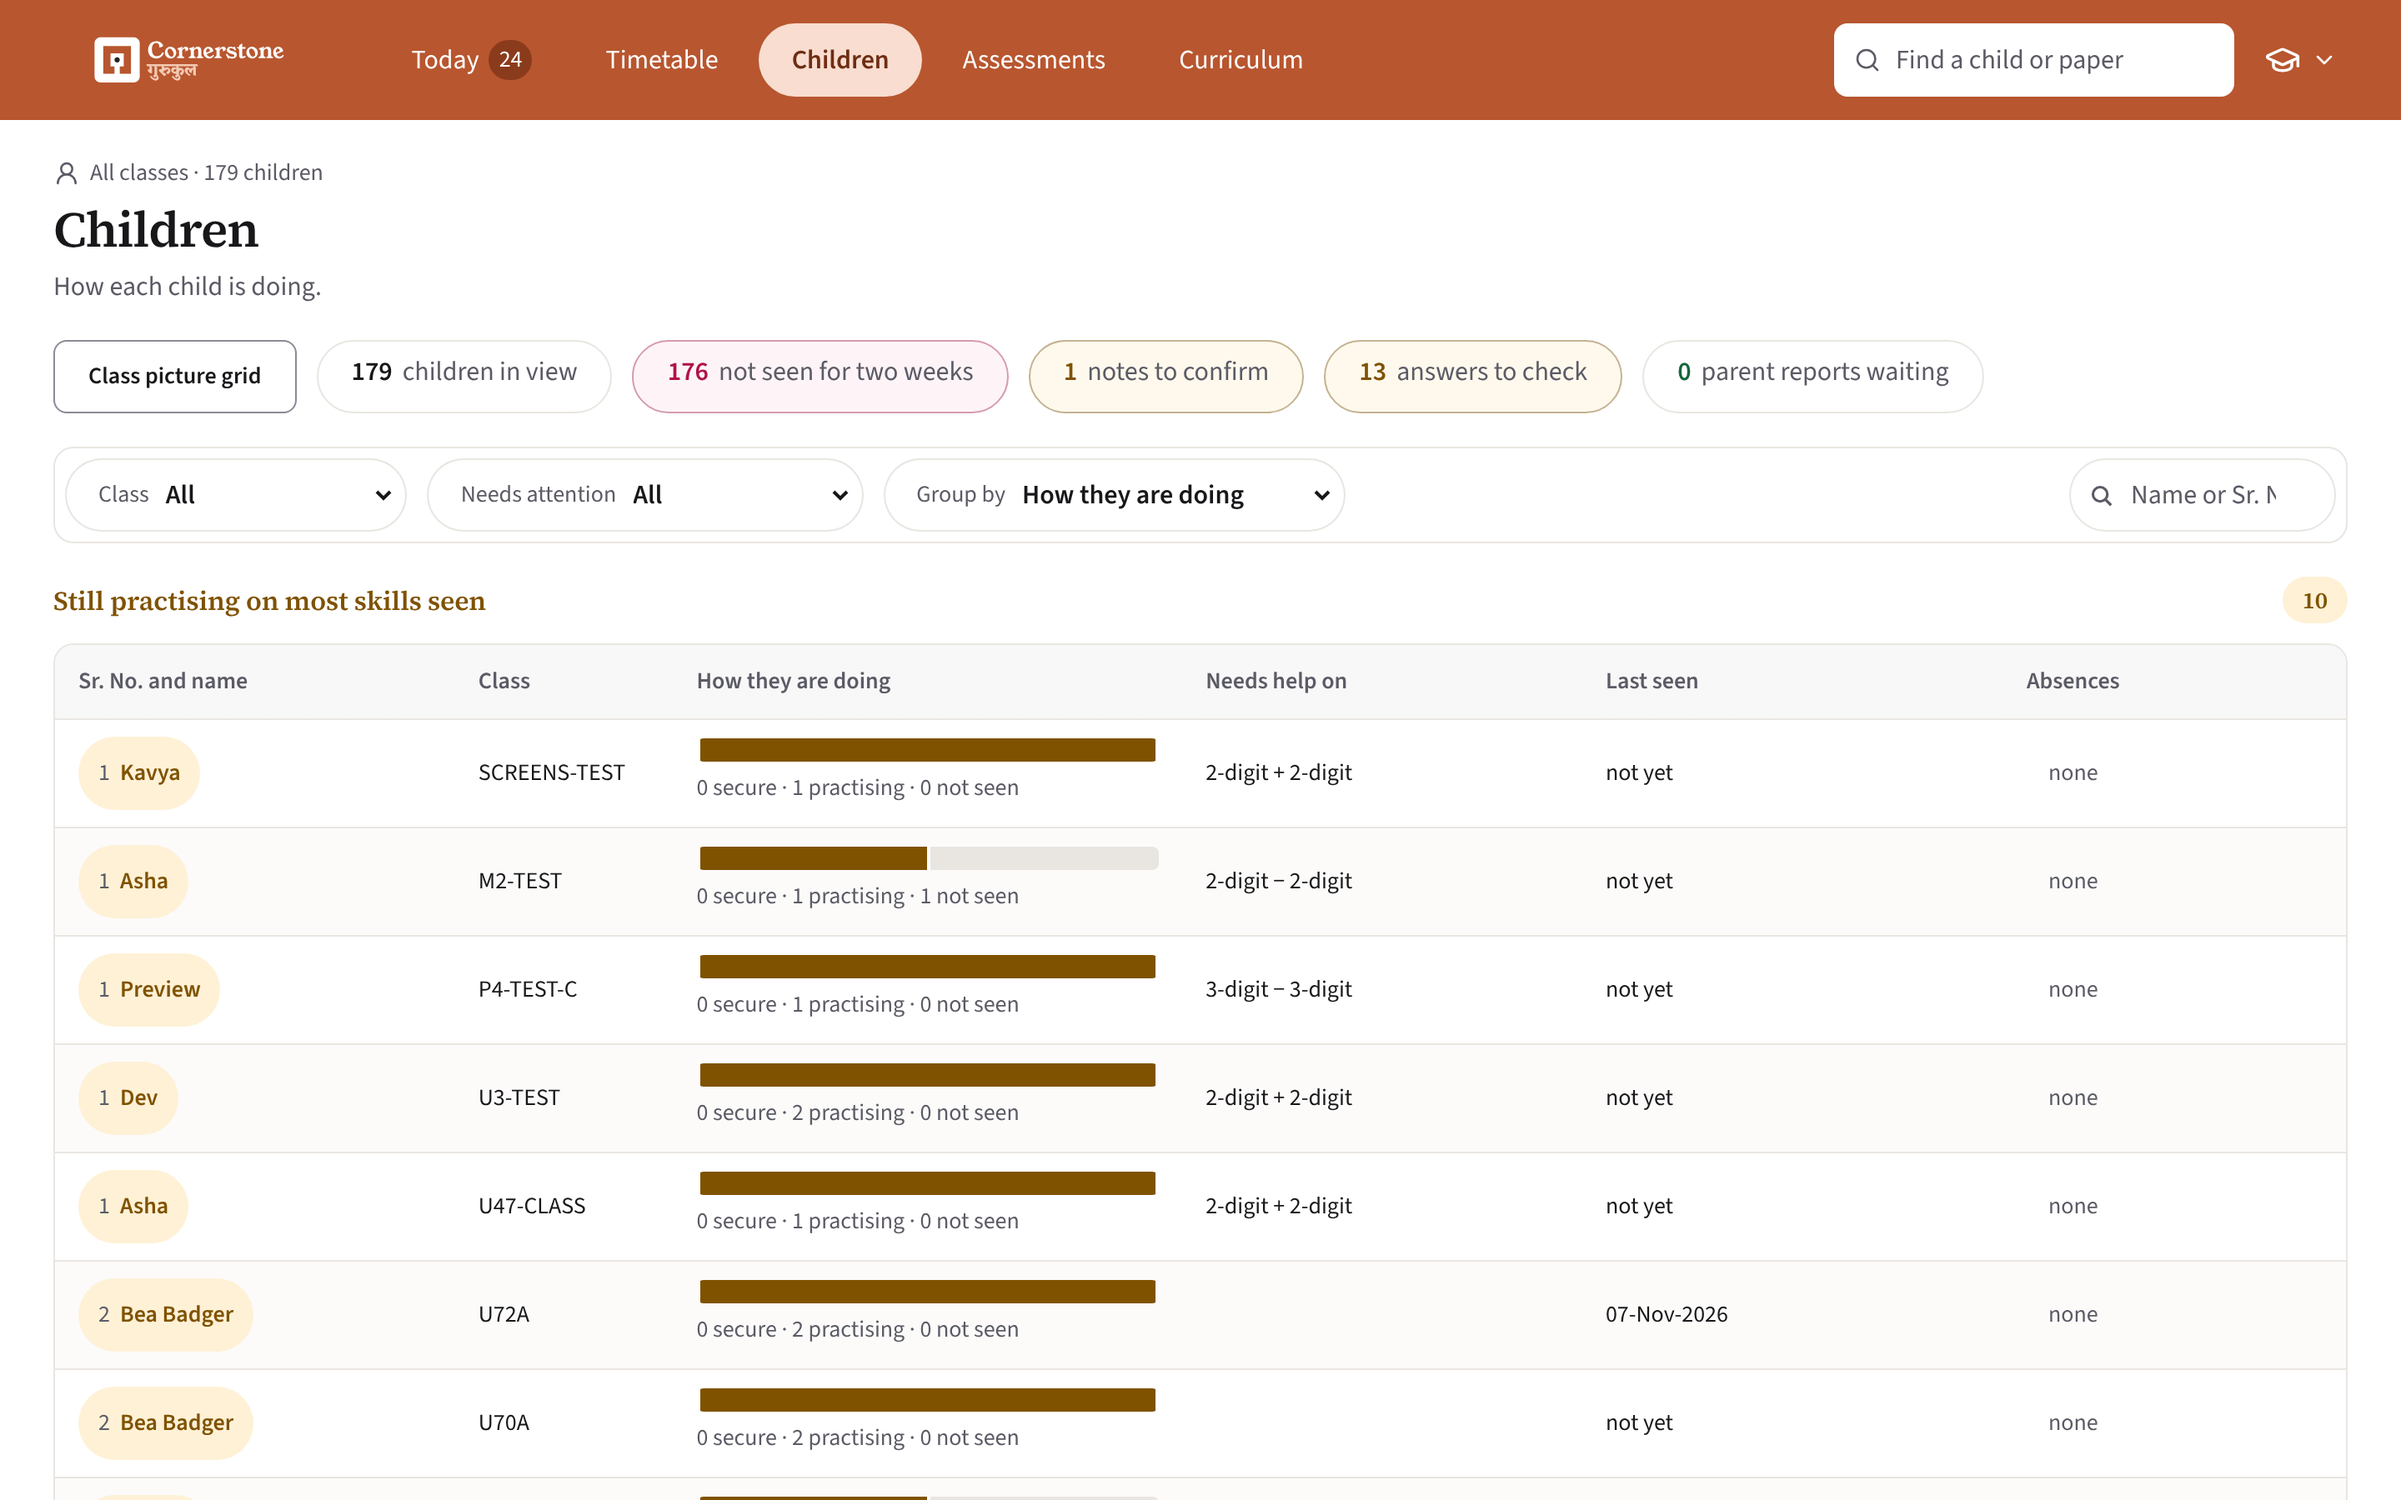
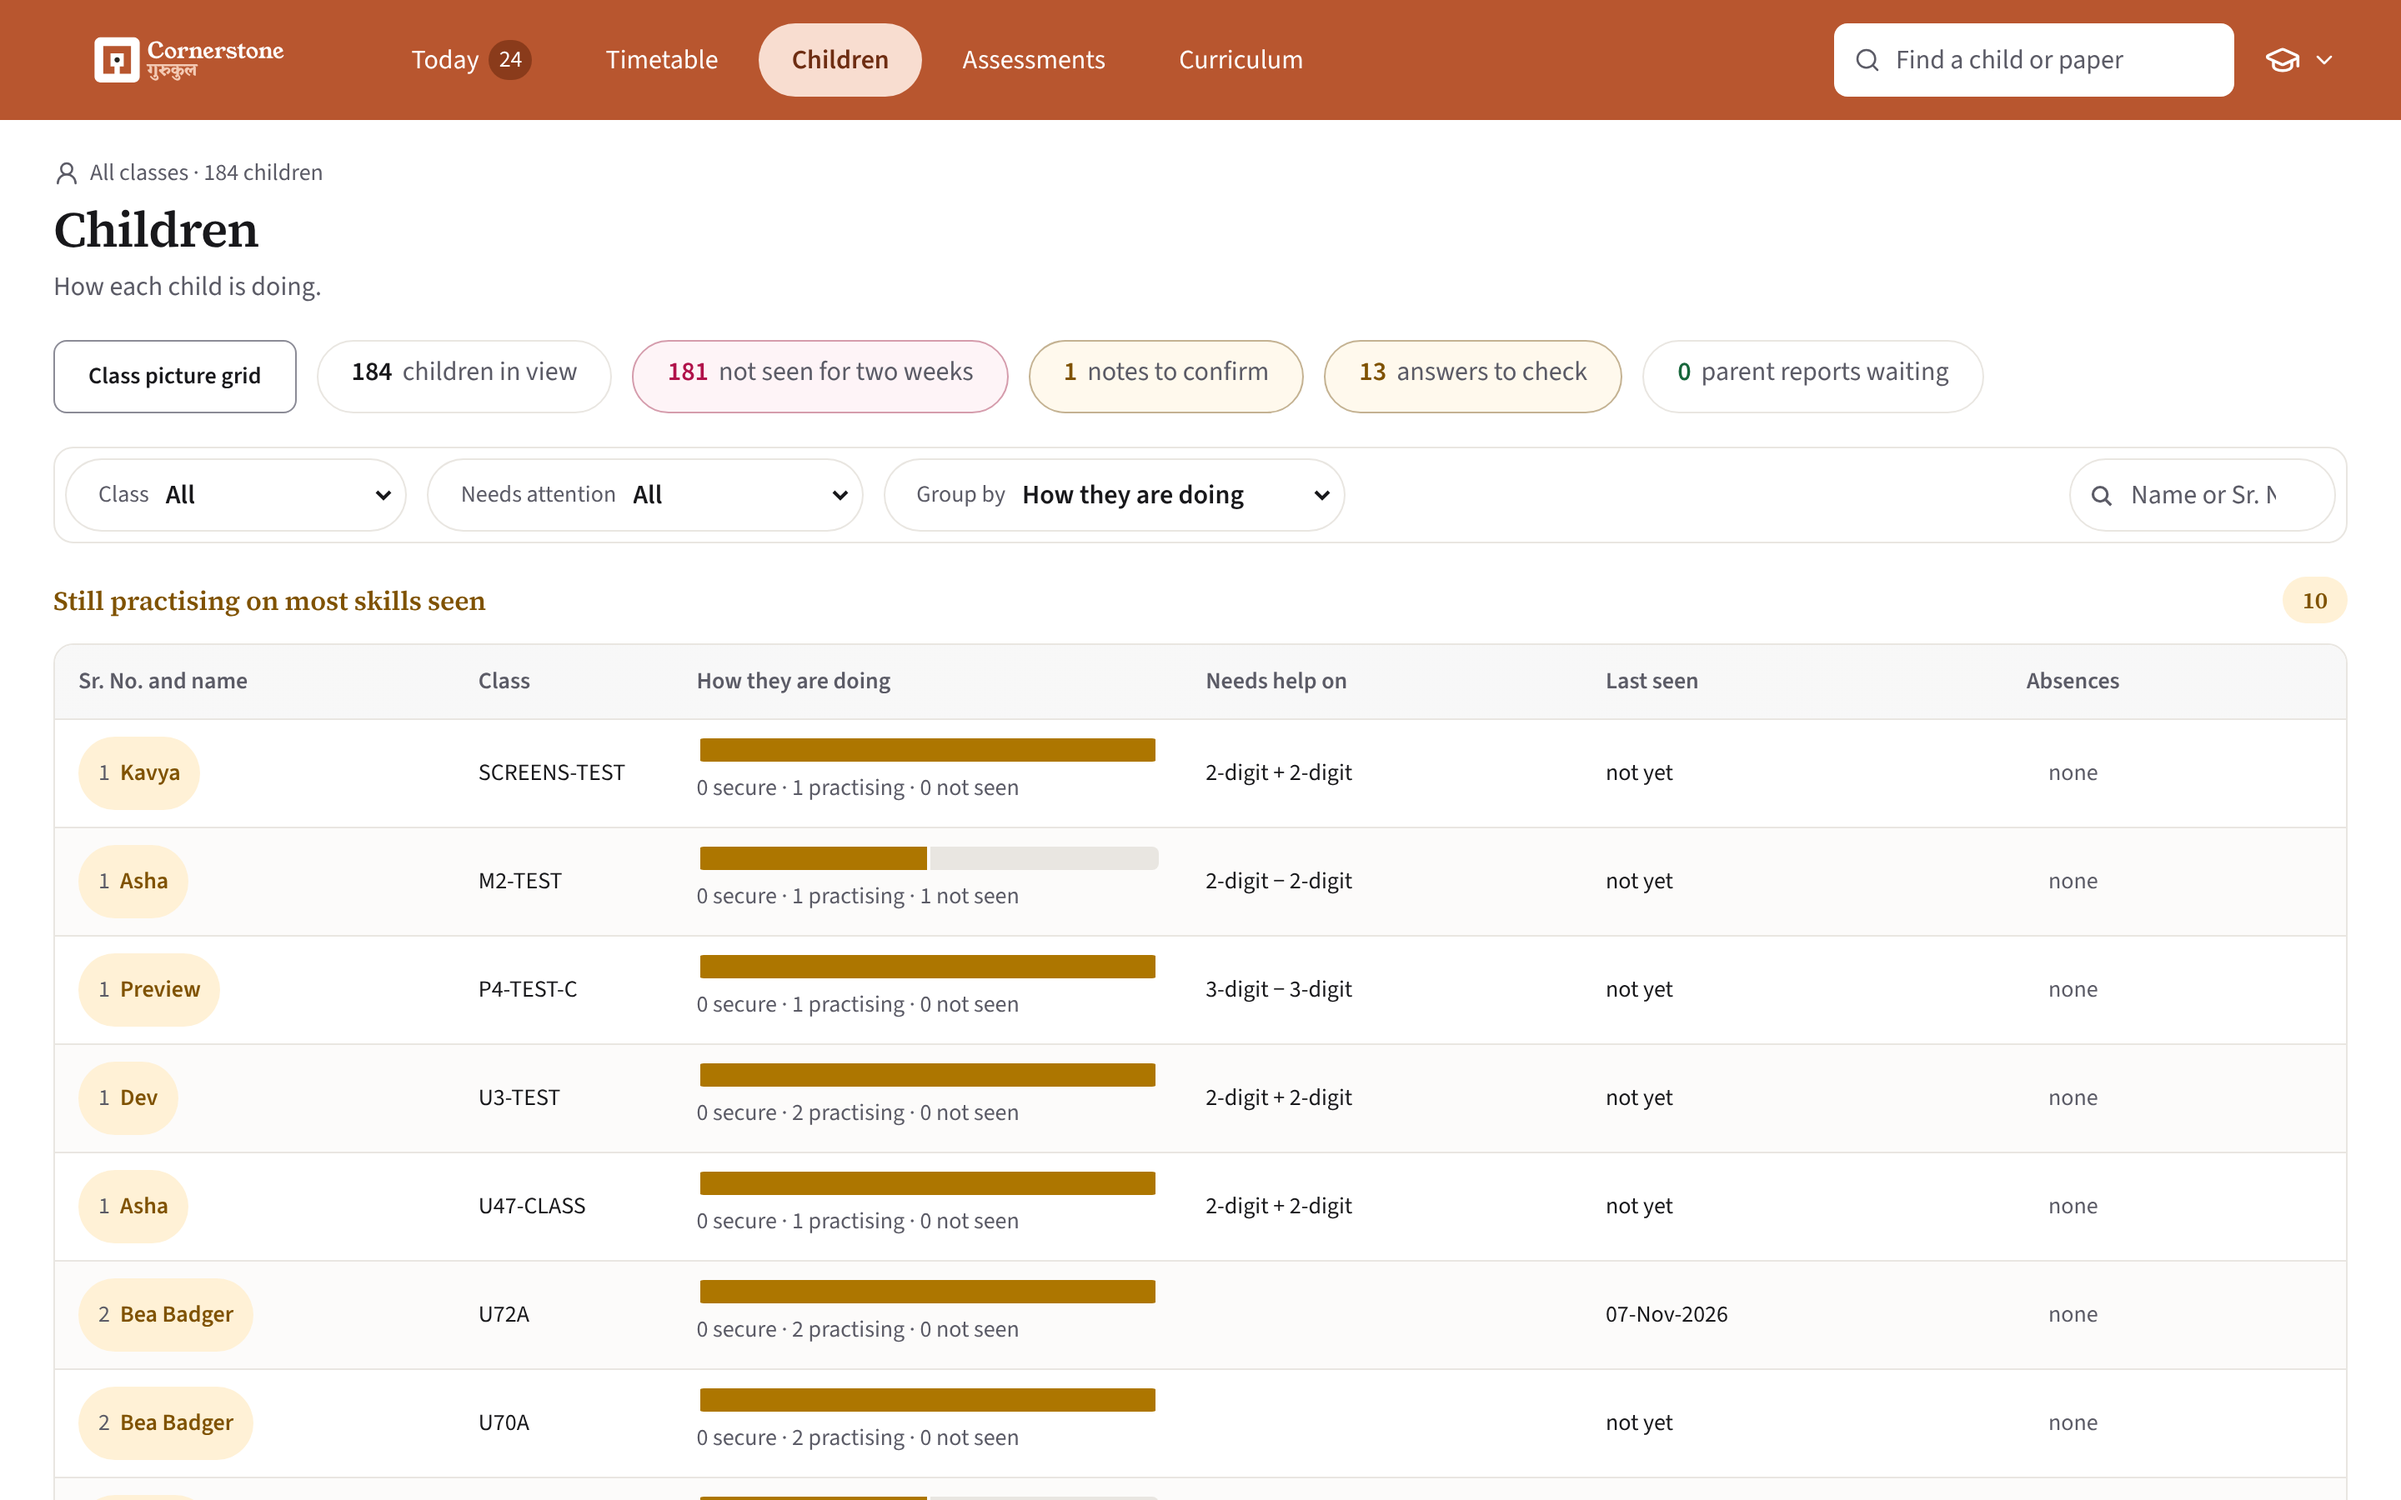
CP-68: a lighter amber for a bar's fill; an empty action row takes no row; Children's purpose line fits the word budget; notes for CP-68b
Claude-Session: https://claude.ai/code/session_01KEBF2A1VcMfqN7oEEPXLtP

diff --git a/apps/web/components/blocks.css b/apps/web/components/blocks.css
@@ -63,6 +63,8 @@
   .b-card { background: var(--panel); border-radius: var(--radius-card); box-shadow: var(--elev); }
   .b-card-h { display: flex; align-items: center; gap: var(--space-2); padding: var(--space-card) var(--space-card) 0; font-size: var(--text-body); font-weight: 600; }
   .b-card-b { display: grid; gap: var(--space-2); padding: var(--space-2) var(--space-card) var(--space-card); }
+  /* a page's action row with nothing in it takes no row of the column (and so no second gap) */
+  .b-actionrow:not(:has(> :not(:empty))) { display: none; }
   .b-card-pad { padding: var(--space-card); }
   /* a card with no head or body of its own still has its padding: nothing sits flush on a card's edge */
   .b-card:not(:has(> .b-card-h, > .b-card-b)) { padding: var(--space-card-tight); }
@@ -127,6 +129,7 @@
   .b-stack { display: grid; gap: var(--space-2); }
   .b-sbar { display: flex; height: 14px; gap: 2px; border-radius: var(--radius-small); overflow: hidden; }
   .b-sbar i { flex: var(--n) 0 0; background: var(--c); }
+  .b-sbar i[data-state="wait"] { background: var(--state-wait-fill); }
   .b-sbar i[data-state="unseen"] { background: var(--line); }
   .b-sbar i[data-subject] { background: var(--s); }
   .b-lbars { display: grid; gap: var(--space-2); }

diff --git a/apps/web/components/children/switched-off.tsx b/apps/web/components/children/switched-off.tsx
@@ -5,7 +5,7 @@ import { SWITCHED_OFF } from "@/lib/children-reads";
 /** What a Children screen says while the educator switch is off: the reason, a way on, and no child. */
 export function SwitchedOff({ title, stage }: { title: string; stage: string }) {
   return (
-    <Screen stage={stage} title={title} purpose="Children are shown once the school has switched the educator screens on." action={<span />} next={{ href: "/today", label: "Today" }}>
+    <Screen stage={stage} title={title} purpose="Children appear once the school switches the educator screens on." action={<span />} next={{ href: "/today", label: "Today" }}>
       <EmptyState>{SWITCHED_OFF}</EmptyState>
     </Screen>
   );

diff --git a/docs/frontend/wireframes/kit.css b/docs/frontend/wireframes/kit.css
@@ -68,6 +68,7 @@
   --state-ok: #17663b;
   --state-ok-bg: #e3f4ea;
   --state-wait: #7f5200;
+  --state-wait-fill: #ad7600;
   --state-wait-bg: #fff1d6;
   --state-late: #b0124a;
   --state-late-bg: #fde7ee;
@@ -151,6 +152,7 @@
     --state-ok: #5fd08a;
     --state-ok-bg: #12301f;
     --state-wait: #ff9f43;
+    --state-wait-fill: #ff9f43;
     --state-wait-bg: #3a2a0b;
     --state-late: #ff8fb1;
     --state-late-bg: #4a1326;
@@ -234,6 +236,7 @@
   --state-ok: #5fd08a;
   --state-ok-bg: #12301f;
   --state-wait: #ff9f43;
+  --state-wait-fill: #ff9f43;
   --state-wait-bg: #3a2a0b;
   --state-late: #ff8fb1;
   --state-late-bg: #4a1326;

diff --git a/apps/web/components/app-frame.tsx b/apps/web/components/app-frame.tsx
@@ -264,7 +264,7 @@ export function Screen({
   const head = (
     <>
       <PageHeader stage={stage} icon={icon} title={title} sub={purpose} inColumn chip={stageChip} />
-      <div className={action !== undefined || details || band ? "flex flex-wrap items-center gap-[var(--space-2)]" : undefined} data-ux={action !== undefined ? "action" : undefined}>
+      <div className={action !== undefined || details || band ? "b-actionrow flex flex-wrap items-center gap-[var(--space-2)]" : "b-actionrow"} data-ux={action !== undefined ? "action" : undefined}>
         {action}
         {band}
         {details ? (

diff --git a/apps/web/design-system/tokens.css b/apps/web/design-system/tokens.css
@@ -38,6 +38,7 @@
   --state-ok: #17663b;
   --state-ok-bg: #e3f4ea;
   --state-wait: #7f5200;
+  --state-wait-fill: #ad7600;
   --state-wait-bg: #fff1d6;
   --state-late: #b0124a;
   --state-late-bg: #fde7ee;
@@ -178,6 +179,7 @@
     --state-ok: #5fd08a;
     --state-ok-bg: #12301f;
     --state-wait: #ff9f43;
+    --state-wait-fill: #ff9f43;
     --state-wait-bg: #3a2a0b;
     --state-late: #ff8fb1;
     --state-late-bg: #4a1326;

diff --git a/docs/notes/CP-68.md b/docs/notes/CP-68.md
@@ -26,3 +26,21 @@ Branch `cp-68-design-language-v2`, 17 Nov 2026. Scope: the tokens and the shared
 - Left for page PRs: the 63 app files in `one-offs.json` (growth, worksheets, voice and the like still use `panel`, `pill`, `text-basalt/…`).
 - On the test database every timetable lesson draws as Arts: its fixture uses codes (NUM, ENG) the school's row does not name. Live uses the
   timetable's own codes.
+
+## For CP-68b (cards and spacing): exactly what this branch changed, so there is ONE card
+This branch was built before the 68a/68b split reached it, so it holds card rules. All are in `apps/web/components/blocks.css` and
+`apps/web/app/globals.css`; `components/cards.tsx` is untouched.
+- Tokens (`docs/frontend/tokens.json`): `radius-card` 12px, `radius-control` 8px, `radius-small` 4px, `space-card` 20px,
+  `space-card-tight` 16px, `shadow-card` (hairline + faint shadow), `shadow-lift` (hover), `shadow-pop` (menus, sheets),
+  `motion-fast` 150ms, `motion-base` 200ms, `motion-ease`, `motion-lift` translateY(-1px), `state-wait-fill`.
+- `.b-card`: white, `radius-card`, `box-shadow: var(--elev)` where `--elev` defaults to `shadow-card`. `.b-card-h` and `.b-card-b`
+  now pad with `space-card` (tight under 700 px) and the head has no tinted band. `.b-card-pad` is a padded card body.
+- A bare `.b-card` (no `.b-card-h` / `.b-card-b` child) gets `space-card-tight` padding.
+- A card inside `.b-card`, `.b-dpanel` or `.b-details` is a flat `surface` tile with no edge (no box in a box).
+- Lift: `a.b-card`, `a.b-prow`, `.b-kitem`, `a[data-lift]` set `--elev: shadow-lift` and `transform: motion-lift` on hover.
+- Subject stripes (inset 3–4 px) removed from `.b-prow`, `.b-cell`, `.b-peek`, `.b-level` and `timetable.css`.
+- Today: `.b-today-block` is a section (no background, edge or radius); `.b-today-sum` has a hairline under it; `.b-today-body` has no
+  side padding. The cards inside it are ordinary `.b-card`s.
+- The older pages' `.panel` / `.panel-head` / `.panel-body` (globals.css): hairline `line`, `radius-card`, `space-card` padding.
+- `.b-actionrow` (the Screen's action row) takes no grid row when empty.
+- u90 holds: card radius 12, first text ≥ 12 px in from a card's edge, no card with an edge inside a card.

diff --git a/docs/design-tokens-contrast.md b/docs/design-tokens-contrast.md
@@ -44,6 +44,8 @@ A pair that fails is fixed in `docs/frontend/tokens.json`, never exempted.
 | state-quiet | ground | a quiet state's text on the page | 4.5:1 | 7.73 | 7.18 | pass |
 | state-quiet | panel | a quiet state's text and ring on a card | 4.5:1 | 7.73 | 6.56 | pass |
 | state-wait | ground | the amber outline on the page | 3:1 | 6.75 | 9.02 | pass |
+| state-wait-fill | line | the amber part of a bar on its track | 3:1 | 3.14 | 6.79 | pass |
+| state-wait-fill | panel | the amber part of a bar on a card | 3:1 | 3.91 | 8.23 | pass |
 | kind-period | kind-period-bg | a period's icon in its tile | 3:1 | 5.95 | 5.88 | pass |
 | kind-period | ground | a period's icon on the page | 3:1 | 6.70 | 7.19 | pass |
 | ink | kind-period-bg | text on a period's tinted header | 4.5:1 | 15.72 | 12.78 | pass |
